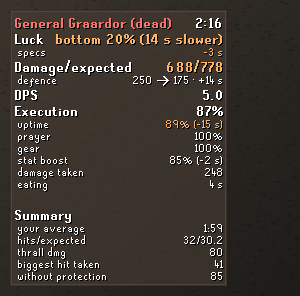
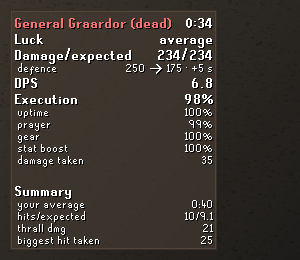
T-067: one consistent Graardor example for the README pictures
The Fight tab's Defence card named a Dragon warhammer while its Damage card
showed Burning claws specs (Eric). The fight overlay, its loadout and the
Fight tab now all come from one simulated General Graardor kill: an
Abyssal tentacle, two Dragon warhammer specs to open (the first missed, the
second landed, Defence 250 -> 175), a thrall, no healing, 255 HP, 0:34 at
average luck. The mid-fight loadout is the tentacle, with no spec rows (it
has no special); the loadout picture is the hammer with its spec.

The specs' share of Luck is left at 0 in the example: a non-zero share shows
as an empty "Not matched to an attack" row on the Damage card (reported).
The GIF is unchanged.

Claude-Session: https://claude.ai/code/session_01X18etdM16w4AUQNJwybjo9

Changed region(s): [[0.03, 0.0308, 0.78, 0.9846], [0.03, 0.7077, 0.36, 0.9846]]

diff --git a/src/test/java/com/pvmlogs/ReadmePictures.java b/src/test/java/com/pvmlogs/ReadmePictures.java
@@ -39,10 +39,11 @@ import net.runelite.client.ui.overlay.components.PanelComponent;
  * The out dir defaults to {@code docs/images}. It reads the render harnesses ({@link LedgerPictures},
  * {@link SidePanelPictures} and their examples) without changing them.
  * <ul>
- * <li>The overlays: the rows {@link LedgerPictures#states()} draws, turned into line components by
- * {@link PvmPerformanceOverlay#lines} as the overlay does, in RuneLite's own {@link PanelComponent} with its standard
- * background, over a neutral dark scene (the overlays are see-through).</li>
- * <li>The side panel's three tabs, from {@link SidePanelPictures}.</li>
+ * <li>The overlays: rows turned into line components by {@link PvmPerformanceOverlay#lines} as the overlay does, in
+ * RuneLite's own {@link PanelComponent} with its standard background, over a neutral dark scene (the overlays are
+ * see-through). The fight overlay, its loadout and the Fight tab all come from one simulated kill, {@link Graardor};
+ * the ruled kill is {@link LedgerPictures#states()}' Vardorvis.</li>
+ * <li>The side panel's History and Trip tabs, from {@link SidePanelPictures}.</li>
  * <li>A GIF of the Fight tab through a simulated kill, redrawn every {@link PvmPerformancePanel#UPDATE_TICKS} ticks as
  * the panel updates, then the view after the kill, all cut to {@link #MAX_GIF_HEIGHT}.</li>
  * </ul>
@@ -75,12 +76,13 @@ public final class ReadmePictures
 		RuneLiteLAF.setup();
 
 		final java.util.Map<String, List<LedgerRows.Row>> states = LedgerPictures.states();
-		png(out, "overlay-mid-fight", overlays(graardor(false), states.get("2-mid.L")));
-		png(out, "overlay-after-kill", overlays(graardor(true)));
+		final Graardor g = new Graardor();
+		png(out, "overlay-mid-fight", overlays(g.mid, LedgerRows.loadout(tentacle(), false)));
+		png(out, "overlay-after-kill", overlays(g.dead));
 		png(out, "overlay-ruled-kill", overlays(states.get("14-ruled")));
-		png(out, "overlay-loadout", overlays(states.get("2-mid.L")));
+		png(out, "overlay-loadout", overlays(LedgerRows.loadout(hammer(), false)));
 
-		png(out, "panel-fight", SidePanelPictures.render(SidePanelExamples.twoHammersOneLanded(), 1));
+		png(out, "panel-fight", SidePanelPictures.render(g.panel, 1));
 		png(out, "panel-history", SidePanelPictures.renderHistory(false, 1));
 		png(out, "panel-trip", SidePanelPictures.renderTrip(SidePanelExamples.trip(), 1));
 
@@ -90,34 +92,77 @@ public final class ReadmePictures
 	// ---- Overlays ----
 
 	/**
-	 * The fight overlay at General Graardor, with the Defence the player's own hammer took (T-051): mid-fight, then
-	 * after the kill. Graardor, not Vardorvis, because Vardorvis's Defence can't be drained. The figures are
-	 * {@link LedgerExamples}' illustrative ones, less what Graardor doesn't do (heal, bleed).
+	 * One simulated kill at General Graardor for the README's overlays and Fight tab, so every picture tells the same
+	 * story (Eric, 2026-10-28: the Defence card's hammer and the Damage card's specs must agree). An Abyssal tentacle,
+	 * two Dragon warhammer specs to open, the first missed and the second landed (Defence 250 → 175), a thrall, no
+	 * healing. Graardor, not Vardorvis, because Vardorvis's Defence can't be drained.
 	 */
-	static List<LedgerRows.Row> graardor(boolean dead)
+	static final class Graardor
 	{
-		final LedgerRows.Settings all = new LedgerRows.Settings();
-		if (!dead)
+		/** Graardor's levels, from the wiki: 255 hitpoints, 250 Defence, 80 Magic; a hammer takes 30% of Defence. */
+		static final int HP = 255;
+		static final int DEFENCE = 250;
+		static final int MAGIC = 80;
+		final List<LedgerRows.Row> mid;
+		final List<LedgerRows.Row> dead;
+		final SidePanelModel.Input panel;
+
+		Graardor()
 		{
-			final LedgerExamples.FakeScope mid = LedgerExamples.midFight();
-			mid.damageVariance = 6000;
-			return LedgerRows.build(mid, LedgerRows.State.fight("General Graardor", false, false, false)
-				.withDrain(new LedgerRows.LiveDrain(175, 250, 0, 80, 80, 0)), all);
+			final LedgerRows.Settings all = new LedgerRows.Settings();
+			final Kill kill = Kill.graardor();
+			// Mid-fight: about half its hitpoints gone.
+			while (!kill.over() && kill.hp > HP / 2)
+			{
+				kill.run(1);
+			}
+			final int drained = kill.defenceNow();
+			mid = LedgerRows.build(LedgerRows.of(kill.room), LedgerRows.State.fight(kill.boss, false, false, false)
+				.withDrain(new LedgerRows.LiveDrain(drained, DEFENCE, 0, MAGIC, MAGIC, 0)), all);
+			while (!kill.over())
+			{
+				kill.run(1);
+			}
+			kill.end();
+			// Your usual here, a few seconds slower than this kill.
+			final int seconds = (int) Math.round(kill.tick * 0.6);
+			final LedgerHistory.Average usual = new LedgerHistory.Average(
+				new LedgerHistory.Spread(seconds + 6, seconds + 1, seconds + 12), 10);
+			dead = LedgerRows.build(LedgerRows.of(kill.room), LedgerRows.State.fight(kill.boss, true, true, false)
+				.withAverage(usual), all);
+			panel = kill.input(new SidePanelWeaponRows());
+			panel.ended = true;
+			panel.killed = true;
+			panel.endMillis = kill.now();
+			panel.average = usual;
 		}
-		final LedgerExamples.FakeScope kill = LedgerExamples.kill();
-		kill.healed = 0;
-		kill.damageVariance = 11436;
-		kill.biggestHitTaken = 41;
-		kill.damageTakenUnprotected = 85;
-		kill.defenceStart = 250;
-		kill.defenceEnd = 175;
-		kill.magicStart = 80;
-		kill.magicEnd = 80;
-		kill.secondsPerDamage = 14.0 / 182;
-		kill.drainValueDamage = 182;
-		kill.specLuckDamage = -41;
-		return LedgerRows.build(kill, LedgerRows.State.fight("General Graardor", true, true, false)
-			.withAverage(new LedgerHistory.Average(new LedgerHistory.Spread(119, 115, 125), 10)), all);
+	}
+
+	/** The tentacle mid-fight at Graardor, its Defence drained to 175: no special of its own, so no spec rows. */
+	static LedgerRows.Loadout tentacle()
+	{
+		final LedgerRows.Loadout l = new LedgerRows.Loadout();
+		l.attack = "Abyssal tentacle";
+		l.maxHit = Kill.TENTACLE_MAX;
+		l.accuracy = Kill.TENTACLE_DRAINED;
+		// 49 max, 66%: about 16.2 a swing every 2.4 s.
+		l.dps = 6.7;
+		return l;
+	}
+
+	/** The Dragon warhammer, for the loadout picture: its own figures and its special's (×1.5 max hit). */
+	static LedgerRows.Loadout hammer()
+	{
+		final LedgerRows.Loadout l = new LedgerRows.Loadout();
+		l.attack = "Dragon warhammer";
+		l.maxHit = 44;
+		l.accuracy = 0.49;
+		// 44 max, 49%: about 10.8 a swing every 3.6 s.
+		l.dps = 3.0;
+		l.specMaxHit = Kill.HAMMER_MAX;
+		l.specAccuracy = Kill.HAMMER_ACCURACY;
+		l.specAverage = Kill.HAMMER_ACCURACY * Kill.HAMMER_MAX / 2.0;
+		return l;
 	}
 
 	/** One or more overlay boxes stacked top-left over the scene, as RuneLite stacks them. */
@@ -248,42 +293,94 @@ public final class ReadmePictures
 		return frames;
 	}
 
-	/** The simulated kill: 700 HP, ticks counted from 0. Seeded, so the GIF comes out the same every time. */
+	/**
+	 * A simulated kill, ticks counted from 0, seeded so the pictures come out the same every time. The GIF's is
+	 * Vardorvis (700 HP, a claws special every 15th attack); {@link #graardor()} is the README's drain example.
+	 */
 	static final class Kill
 	{
-		static final int MAX_HP = 700;
 		/** When the kill starts: an afternoon, as the panel examples use. */
 		static final long START = SidePanelExamples.at(16, 3);
-		final int[] clock = {0};
-		final FightTimeline.Store store = new FightTimeline.Store();
-		final Fight fight = new Fight("Vardorvis", NpcIds.GOBLIN, 1, MAX_HP, START, null, 0);
-		final Encounter room = new Encounter("Vardorvis", null, START);
-		final FightTimeline line;
 		/** Picked for an ordinary kill: about two minutes, luck in the middle. */
 		static final long SEED = 255;
+		static final int TENTACLE_MAX = 49;
+		/** The tentacle's accuracy at Graardor's full Defence, and at 175 once a hammer lands (illustrative). */
+		static final double TENTACLE_FULL = 0.54;
+		static final double TENTACLE_DRAINED = 0.66;
+		static final int HAMMER_MAX = 66;
+		static final double HAMMER_ACCURACY = 0.60;
+
+		final String boss;
+		final int maxHp;
+		final int[] clock = {0};
+		final FightTimeline.Store store = new FightTimeline.Store();
+		final Fight fight;
+		final Encounter room;
+		final FightTimeline line;
 		final Random rng;
 		int tick;
-		int hp = MAX_HP;
+		int hp;
 		private int cooldown;
 		private int attacks;
+		/** Graardor only: the hammer specs to open with, and whether each lands; null for Vardorvis's claws. */
+		private final boolean[] hammers;
+		private int specsLanded;
+		private double accuracy = TENTACLE_FULL;
+		private double drainValue;
 
 		Kill()
 		{
-			this(SEED);
+			this("Vardorvis", 700, SEED, null);
 		}
 
 		Kill(long seed)
 		{
+			this("Vardorvis", 700, seed, null);
+		}
+
+		private Kill(String boss, int maxHp, long seed, boolean[] hammers)
+		{
+			this.boss = boss;
+			this.maxHp = maxHp;
+			this.hp = maxHp;
+			this.hammers = hammers;
 			rng = new Random(seed);
+			fight = new Fight(boss, NpcIds.GOBLIN, 1, maxHp, START, null, 0);
+			room = new Encounter(boss, null, START);
 			store.setClock(() -> clock[0]);
 			store.attach(fight);
 			line = store.of(fight);
 			room.add(fight);
 		}
 
+		/** Picked for an ordinary Graardor kill: 0:34, damage on expected (luck 50%). */
+		static final long GRAARDOR_SEED = 42;
+
+		/** General Graardor: two hammer specs to open, the first missed, the second landed. */
+		static Kill graardor()
+		{
+			return graardor(GRAARDOR_SEED);
+		}
+
+		static Kill graardor(long seed)
+		{
+			return new Kill("General Graardor", Graardor.HP, seed, new boolean[]{false, true});
+		}
+
 		boolean over()
 		{
 			return hp <= 0;
+		}
+
+		/** Graardor's Defence now: 30% off for each hammer that landed. */
+		int defenceNow()
+		{
+			int d = Graardor.DEFENCE;
+			for (int i = 0; i < specsLanded; i++)
+			{
+				d -= (int) (d * 0.3);
+			}
+			return d;
 		}
 
 		void run(int ticks)
@@ -316,7 +413,13 @@ public final class ReadmePictures
 					continue;
 				}
 				attacks++;
-				final boolean special = attacks % 15 == 0;
+				if (hammers != null && attacks <= hammers.length)
+				{
+					hammer(hammers[attacks - 1], now);
+					cooldown = 5;
+					continue;
+				}
+				final boolean special = hammers == null && attacks % 15 == 0;
 				fight.recordAttackMade(false, 1.0, false);
 				line.describeLatest(special ? "Burning claws" : "Abyssal tentacle", special ? ItemID.BONE_CLAWS
 					: ItemID.ABYSSAL_TENTACLE, null, FightTimeline.Style.MELEE, tick);
@@ -325,11 +428,16 @@ public final class ReadmePictures
 					line.markLatestSpecial();
 				}
 				// Vardorvis at full HP blocks about half of a tentacle's swings (08-boss-stats.md: 54% at full HP).
-				final int maxHit = special ? 48 : 49;
-				final double accuracy = special ? 0.85 : 0.54;
-				fight.recordExpected(maxHit, accuracy, accuracy * maxHit / 2.0, maxHit * maxHit / 12.0);
+				final int maxHit = special ? 48 : TENTACLE_MAX;
+				final double chance = special ? 0.85 : accuracy;
+				fight.recordExpected(maxHit, chance, chance * maxHit / 2.0, maxHit * maxHit / 12.0);
 				fight.recordAttackResolved(true, true, 0.98, 1.0, 0.012, 0);
-				if (rng.nextDouble() < accuracy)
+				if (!special && accuracy > TENTACLE_FULL)
+				{
+					// What the drain added to this swing's expectation.
+					drainValue += (accuracy - TENTACLE_FULL) * maxHit / 2.0;
+				}
+				if (rng.nextDouble() < chance)
 				{
 					final int hit = rng.nextInt(maxHit + 1);
 					fight.recordDamageDealt(Math.min(hit, hp), now, true);
@@ -337,6 +445,26 @@ public final class ReadmePictures
 					hp -= Math.min(hit, hp);
 				}
 				cooldown = 3;
+			}
+		}
+
+		/** A Dragon warhammer special: it lands as the plan says, and a landed one takes 30% of Defence. */
+		private void hammer(boolean lands, long now)
+		{
+			fight.recordAttackMade(false, 1.0, false);
+			line.describeLatest("Dragon warhammer", ItemID.DRAGON_WARHAMMER, null, FightTimeline.Style.MELEE, tick);
+			line.markLatestSpecial();
+			fight.recordExpected(HAMMER_MAX, HAMMER_ACCURACY, HAMMER_ACCURACY * HAMMER_MAX / 2.0,
+				HAMMER_MAX * HAMMER_MAX / 12.0);
+			fight.recordAttackResolved(true, true, 0.98, 1.0, 0.012, 0);
+			if (lands)
+			{
+				final int hit = 18 + rng.nextInt(HAMMER_MAX - 17);
+				fight.recordDamageDealt(Math.min(hit, hp), now, true);
+				line.attributeSplat(Integer.MIN_VALUE);
+				hp -= Math.min(hit, hp);
+				specsLanded++;
+				accuracy = TENTACLE_DRAINED;
 			}
 		}
 
@@ -357,6 +485,24 @@ public final class ReadmePictures
 
 		void end()
 		{
+			if (hammers != null)
+			{
+				final DrainRecord r = new DrainRecord();
+				r.defenceBase = Graardor.DEFENCE;
+				r.defenceStart = Graardor.DEFENCE;
+				r.defenceEnd = defenceNow();
+				r.magicBase = Graardor.MAGIC;
+				r.magicStart = Graardor.MAGIC;
+				r.magicEnd = Graardor.MAGIC;
+				r.magicDefenceBase = -1;
+				r.magicDefenceStart = -1;
+				r.magicDefenceEnd = -1;
+				r.specs.put("DRAGON_WARHAMMER", new int[]{hammers.length, specsLanded});
+				fight.recordDrain(r);
+				// The drain's worth as realized. The specs' own share of Luck is left at 0: on master a non-zero share
+				// shows as an empty "Not matched to an attack" row on the Damage card (reported in T-067's status).
+				fight.recordSpecOutcomes(0, 0, drainValue, drainValue);
+			}
 			fight.end(true, now());
 			room.end(now());
 		}

diff --git a/README.md b/README.md
@@ -33,7 +33,7 @@ After a kill at a boss with attack rules, Execution gains an **avoidable eating*
 ### The loadout overlay
 Your current weapon's max hit, accuracy and DPS against the target, and its special attack's.
 
-<img src="docs/images/overlay-loadout.png" alt="The loadout overlay for an Abyssal tentacle">
+<img src="docs/images/overlay-loadout.png" alt="The loadout overlay for a Dragon warhammer, with its special attack">
 
 ### The side panel
 - **Fight:** where the time went, Luck, the Defence your specials took, Execution, damage by weapon and source, damage over time, a tick strip, and damage taken.
